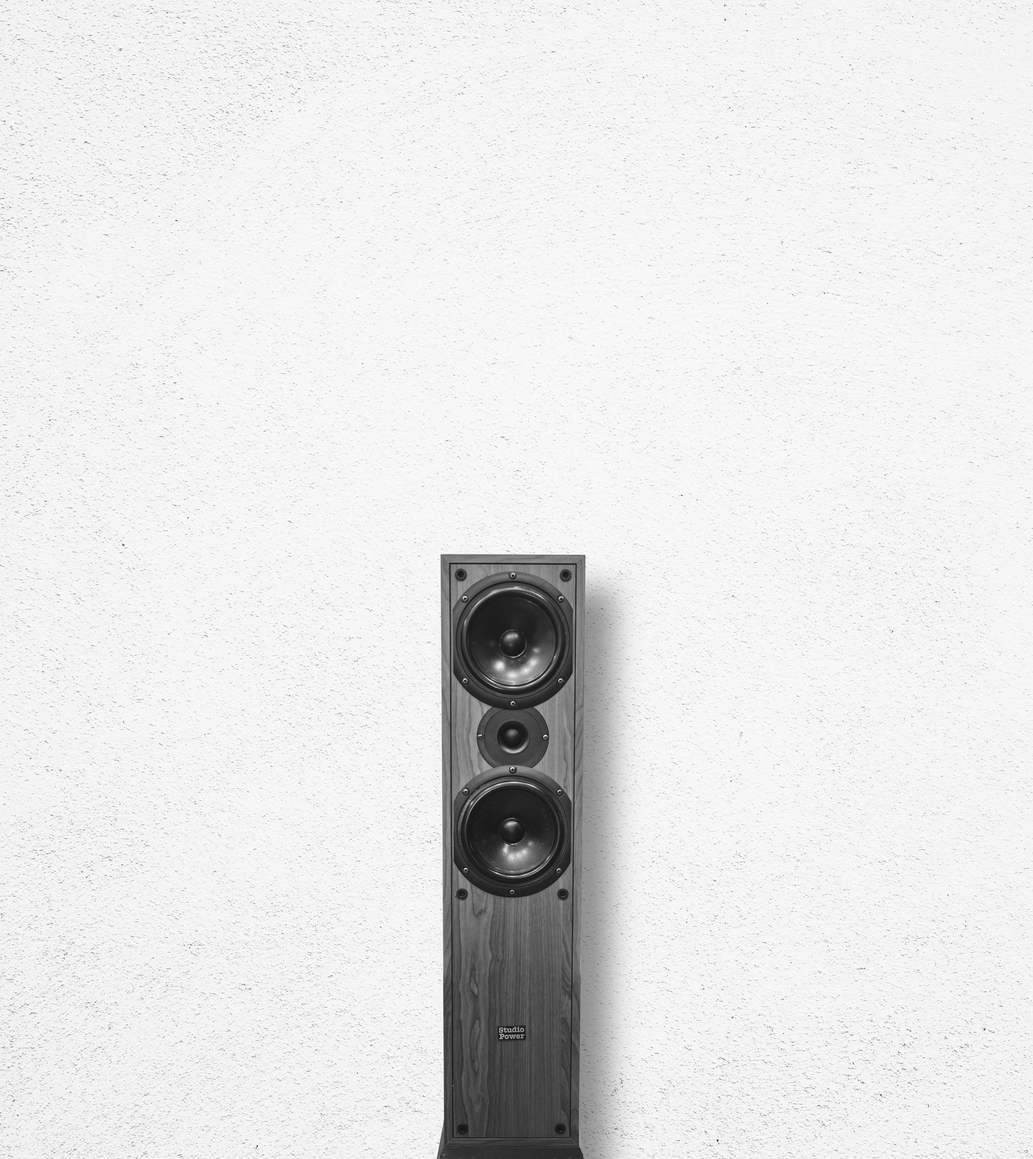
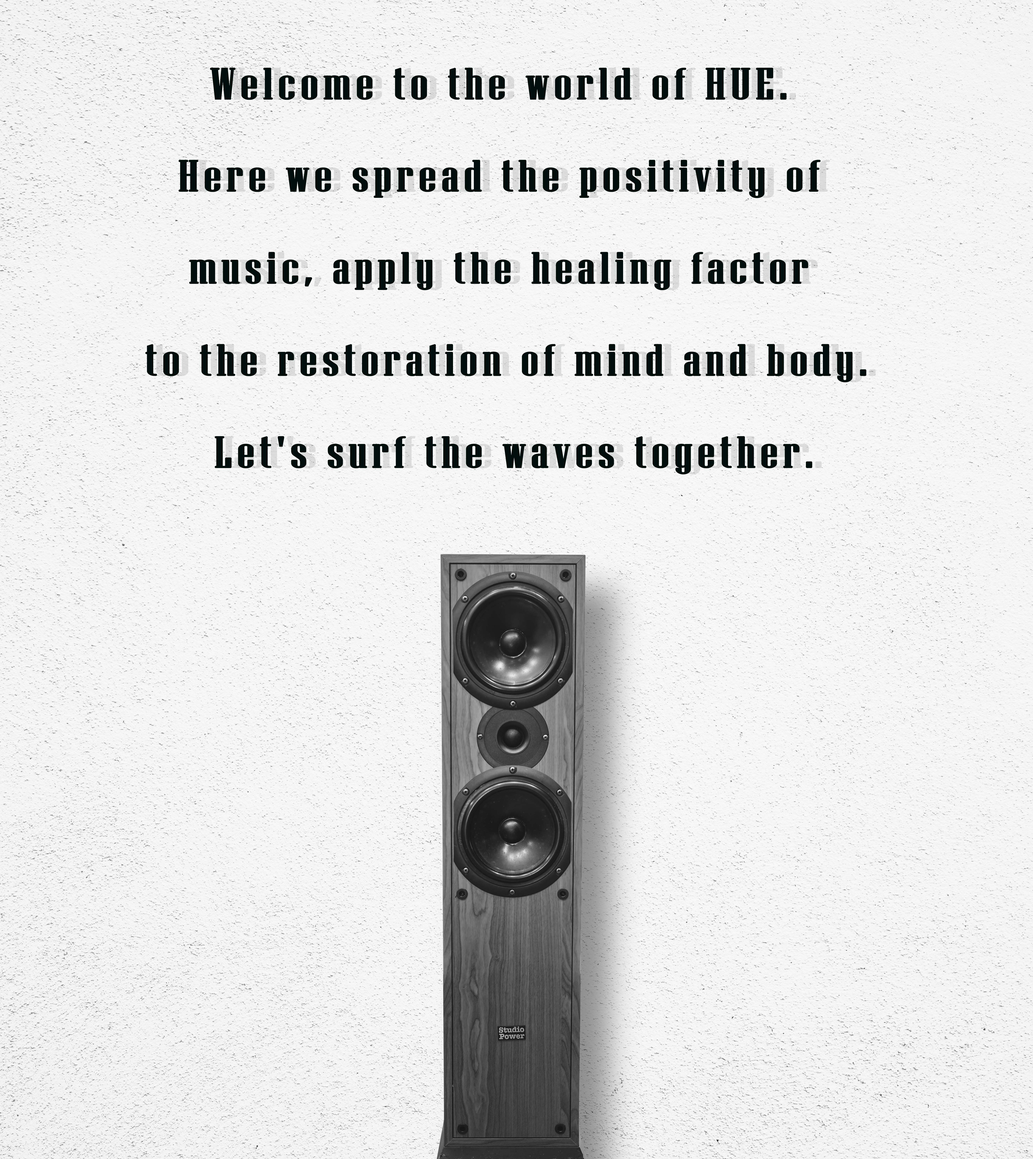
put text on picture instead and made changes to style and index

diff --git a/css/style.css b/css/style.css
@@ -48,14 +48,6 @@ body {
 #whitespeaker {
     height: 100%; 
 }
-#toptext {
-    position: absolute;
-    bottom: 75%;
-    width: 580px;
-    vertical-align: middle;
-    text-align: center;
-    color: gray;
-}
 p {
     font-size: 1.25rem;
     font-weight: 700;
@@ -84,44 +76,20 @@ p {
 
 @media (min-width: 1026px) {
     .middle-div {
-    height: 90%;
+    height: 100%;
     display: inline-block;
-}
-    #toptext {
-    position: absolute;
-    bottom: 79%;
-    width: 520px;
-    vertical-align: middle;
-    text-align: center;
-    font-size: 0.9rem;
-}
-    
+}   
 }
 @media (min-width: 1024px) and (max-width: 1025px) {
     .middle-div {
-    height: 70%;
+    height: 100%;
     display: inline-block;
-}
-    #toptext {
-    position: absolute;
-    bottom: 84%;
-    width: 800px;
-    vertical-align: middle;
-    text-align: center;
-        font-size: 1.6rem;
 }
 }
 @media (min-width: 769) and (max-width: 1023px){
     .middle-div {
-    height: 80%;
+    height: 100%;
     display: inline-block;
-}
-    #toptext {
-    position: absolute;
-    bottom: 75%;
-    width: 800px;
-    vertical-align: middle;
-    text-align: center;
 }
 p {
     font-size: 2.2rem;
@@ -135,12 +103,9 @@ p {
 }
 }
 @media (max-width: 899px){
-    #top-text {
-    position: absolute;
-    bottom: 86%;
-    width: 570px;
-    vertical-align: middle;
-    text-align: center;
+    .middle-div {
+    height: 100%;
+    display: inline-block;
 }
 p {
     font-size: 1.05rem;
@@ -155,13 +120,6 @@ p {
     .middle-div {
     height: 70%;
     display: inline-block;
-}
-    #toptext {
-    position: absolute;
-    bottom: 76%;
-    width: 640px;
-    vertical-align: middle;
-    text-align: center;
 }
 p {
     font-size: 1.35rem;
@@ -188,13 +146,6 @@ p {
     height: 80%;
     display: inline-block;
 }
-    #toptext {
-    position: absolute;
-    bottom: 75%;
-    width: 450px;
-    vertical-align: middle;
-    text-align: center;
-}
 p {
     font-size: 0.95em;
     font-weight: 700;
@@ -211,13 +162,6 @@ p {
 }
 
 @media (min-width: 376px) and (max-width: 575px) {
-    #toptext {
-    position: absolute;
-    bottom: 60%;
-    width: 270px;
-    vertical-align: middle;
-    text-align: center;
-}
 p {
     font-size: 0.87rem;
     font-weight: 700;
@@ -244,15 +188,34 @@ p {
         margin: 0 0 0 40px;
 }
 }
-
+@media (max-width: 414px) {
+p {
+    font-size: 0.87rem;
+    font-weight: 700;
+    color: whitesmoke;
+    font-family: Interstate,Lucida Grande,Lucida Sans Unicode,Lucida Sans,Garuda,Verdana,Tahoma,sans-serif;
+}
+    .body-hold{
+    position: absolute;
+    width: 100%;
+    height: 100%;
+    text-align: center;
+}
+.middle-div {
+    height: 50%;
+    display: inline-block;
+    text-align: center;
+}
+ .form-row {
+        width: 300px;
+     
+    }
+    .label-size{
+        width: 70%;
+        margin: 0 0 0 40px;
+}
+}
 @media (max-width: 375.98px) {
-    #toptext {
-    position: absolute;
-    bottom: 70%;
-    width: 300px;
-    vertical-align: middle;
-    text-align: center;
-}
 p {
     font-size: 0.87rem;
     font-weight: 700;
@@ -277,15 +240,6 @@ p {
     .label-size{
         width: 70%;
         margin: 0 0 0 40px;
-}
-}
-@media (max-width: 360px) {
-    #toptext {
-    position: absolute;
-    bottom: 60%;
-    width: 280px;
-    vertical-align: middle;
-    text-align: center;
 }
 }
 @media (max-width: 320px) {
@@ -348,7 +302,7 @@ p {
     border: 2px solid #7a56ff;
 }
 .track-div {
-    left: 850px;
+    left: 790px;
     align-self: center;
     position: relative;
     width: 500px;
@@ -385,7 +339,7 @@ p {
     border: 1px solid #7a56ff;
 }
 .track-div {
-    left: 580px;
+    left: 540px;
     align-self: center;
     position: relative;
     width: 580px;
@@ -426,7 +380,7 @@ p {
     left: 580px;
     align-self: center;
     position: relative;
-    width: 580px;
+    width: 560px;
     font-size: 10px; 
     color: #cccccc;
     line-break: anywhere;
@@ -461,7 +415,7 @@ p {
     border: 2px solid #7a56ff;
 }
 .track-div {
-    left: 500px;
+    left: 480px;
     align-self: center;
     position: relative;
     width: 350px;

diff --git a/index.html b/index.html
@@ -43,11 +43,7 @@
             <div class="middle-div container-sm">
             <a class="middle-img-holder">
                 <img src="media/pattern-white.jpg" alt="white pattern image" id="whitespeaker">
-            </a> 
-   
-                <p id="toptext">Welcome to the world of HUE. Here we spread the positivity of music, apply the healing factor to the restoration of mind and body. Let's surf the waves together.
-                </p>
-
+            </a>
         </div>
         <h1 class="white-text margin">MUSIC</h1>
         <div class="music-div">
